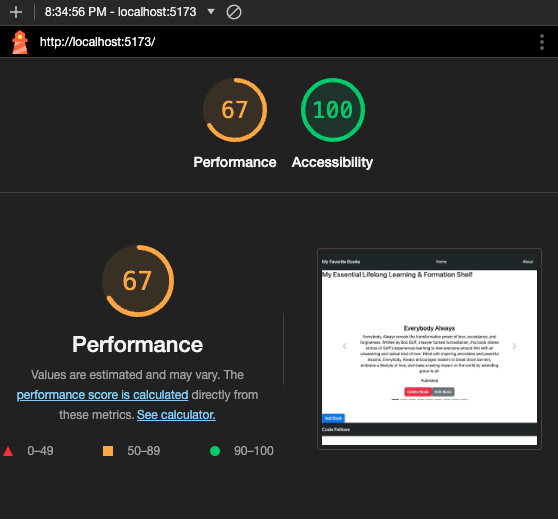
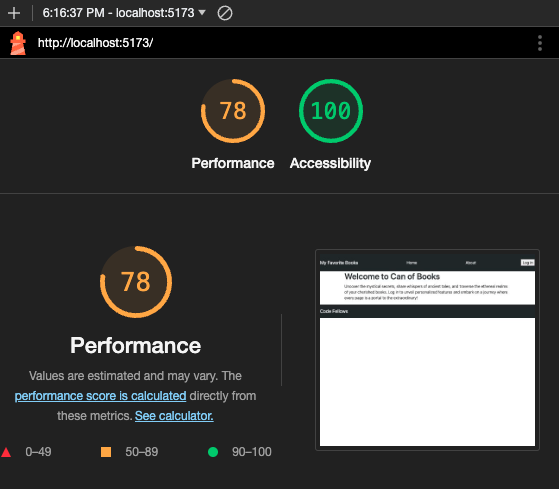
Added Auth0

diff --git a/src/BestBooks.jsx b/src/BestBooks.jsx
@@ -4,6 +4,8 @@ import { Button }from 'react-bootstrap';
 import 'bootstrap/dist/css/bootstrap.min.css';
 import CreateBook from './CreateBook';
 import EditBook from './EditBook';
+import { withAuth0 } from '@auth0/auth0-react';
+
 
 
 
@@ -14,6 +16,7 @@ class BestBooks extends React.Component {
       books: [],
       isLoading: false,
       showModal: false,
+      token: null,
       editedBook:{
         _id: '',
         title: '',
@@ -49,7 +52,14 @@ class BestBooks extends React.Component {
   }
 async componentDidMount(){
     try {
-        let foundBooks = await fetch(`${import.meta.env.VITE_SERVER_URL}/books`);
+        let res = await this.props.auth0.getIdTokenClaims();
+        const token = res.__raw;
+        console.log('This is my token :', token)
+        this.setState({ token });
+        let foundBooks = await fetch(`${import.meta.env.VITE_SERVER_URL}/books`, {
+            headers: {
+                'Authorization': `Bearer ${token}`},
+        });
         if (foundBooks.ok) {
             let bookData= await foundBooks.json();
             this.setState({
@@ -65,10 +75,15 @@ async componentDidMount(){
 }
 async handleDeleteBook(bookId){
     try {
+        let res = await this.props.auth0.getIdTokenClaims();
+        const token = res.__raw;
+        this.setState({ token });
         this.setState({ isLoading: true })
         console.log('Deleting books with this ID: ', bookId)
         let deleteBook = await fetch(`${import.meta.env.VITE_SERVER_URL}/books/${bookId}`, {
             method: 'DELETE',
+            headers: {
+                'Authorization': `Bearer ${token}`},
         });
         if (deleteBook.ok) {
             this.setState((prevState) => ({
@@ -90,15 +105,19 @@ handleEditSubmit = async (updatedBook) => {
     try {
       const { _id, title, description, status } = updatedBook;
       const updatedBookData = { title, description, status };
+      let res = await this.props.auth0.getIdTokenClaims();
+      const token = res.__raw;
+      this.setState({ token });
   
-      let res = await fetch(`${import.meta.env.VITE_SERVER_URL}/books/${_id}`, {
+      let response = await fetch(`${import.meta.env.VITE_SERVER_URL}/books/${_id}`, {
         method: 'PUT',
         headers: {
-          'Content-Type': 'application/json',
-        },
+            'Content-Type': 'application/json',
+            'Authorization': `Bearer ${token}`,
+          },
         body: JSON.stringify(updatedBookData),
       });
-        if (res.ok) {
+        if (response.ok) {
             const updatedBookData = await res.json();
             this.setState((prevState) => ({
                 books: prevState.books.map((book) => 
@@ -109,7 +128,7 @@ handleEditSubmit = async (updatedBook) => {
             }));
             this.handleCloseModal();
         }else {
-            console.error('BestBooks.jsx- Failed to Update Book:', res.status )
+            console.error('BestBooks.jsx- Failed to Update Book:', response.status )
         }
     } catch (error) {
         console.error('BestBooks.jsx- Error Updating Book: ', error);
@@ -121,50 +140,59 @@ handleBookCreated = (newBook) => {
         books: [ ...prevState.books, newBook],
     }));
 }
-  render() {
+render() {
     let carouselStyle = {
-        margin: '2rem',
-    }
+      margin: '2rem',
+    };
 
-        return (
-            <>
-                <h2>My Essential Lifelong Learning &amp; Formation Shelf</h2>
+    return (
+      <>
+      {this.props.auth0.isAuthenticated ? (
+        <>
+            <h3>My Essential Lifelong Learning &amp; Formation Shelf</h3>
 
-                {this.state.books.length > 0 ? (
-                    <Carousel style= {carouselStyle} data-bs-theme="dark">
-                        {this.state.books.map((book, index) => (
-                            <Carousel.Item key={index}>
-                                {book.img ? (
-                                    <img src={book.img} alt={`Slide ${index + 1}`} />
-                                ) : (
-                                    <img src="https://fakeimg.pl/600x500/FFFFFF/FFFFFF" alt={`Slide ${index + 1}`} />
-                                )}
-                                <Carousel.Caption className="book-card">
-                                    <h3>{book.title}</h3>
-                                    <p>{book.description}</p>
-                                    <p>{book.status}</p>
-                                    <Button variant='danger' onClick={() => this.handleDeleteBook(book._id)} >
-                                        Delete Book </Button>
-                                        <Button variant='secondary' onClick={() => this.handleEditBook(book)} >
-                                        Edit Book </Button>
-                                </Carousel.Caption>
-                            </Carousel.Item>
-                        ))}
-                    </Carousel>
-                ) : (
-                    <h3>No Books Found</h3>
-                )}
-                <CreateBook onBookCreated= {this.handleBookCreated}/>
-                {this.state.showModal && (
-                <EditBook 
-                  showModal={this.state.showModal}
-                  handleCloseModal={this.handleCloseModal}
-                  editedBook={this.state.editedBook}
-                  handleEditSubmit={this.handleEditSubmit}/>
-                  )}
+            {this.state.books.length > 0 ? (
+              <Carousel style={carouselStyle} data-bs-theme="dark">
+                {this.state.books.map((book, index) => (
+                  <Carousel.Item key={index}>
+                    {book.img ? (
+                      <img src={book.img} alt={`Slide ${index + 1}`} />
+                    ) : (
+                      <img src="https://fakeimg.pl/600x500/FFFFFF/FFFFFF" alt={`Slide ${index + 1}`} />
+                    )}
+                    <Carousel.Caption className="book-card">
+                      <h3>{book.title}</h3>
+                      <p>{book.description}</p>
+                      <p>{book.status}</p>
+                      <Button variant="danger" onClick={() => this.handleDeleteBook(book._id)}>
+                        Delete Book
+                      </Button>
+                      <Button variant="secondary" onClick={() => this.handleEditBook(book)}>
+                        Edit Book
+                      </Button>
+                    </Carousel.Caption>
+                  </Carousel.Item>
+                ))}
+              </Carousel>
+            ) : (
+              <h3>No Books Found</h3>
+            )}
+            <CreateBook onBookCreated={this.handleBookCreated} />
+            {this.state.showModal && (
+              <EditBook
+                showModal={this.state.showModal}
+                handleCloseModal={this.handleCloseModal}
+                editedBook={this.state.editedBook}
+                handleEditSubmit={this.handleEditSubmit}
+              />
+            )}
             </>
-        );
-    }
+            ): (
+                <h2> Please Log In To View and Add Books</h2>
+            )}
+      </>
+    );
+  }
 }
 
-export default BestBooks;
+export default withAuth0(BestBooks);

diff --git a/src/App.jsx b/src/App.jsx
@@ -9,26 +9,39 @@ import {
   Routes,
   Route
 } from "react-router-dom";
+import { Auth0Provider, useAuth0 } from '@auth0/auth0-react';
+import Welcome from './Welcome';
 
+const AuthenticatedRoute = ({ children }) => {
+  const { isAuthenticated } = useAuth0();
+  return isAuthenticated ? children : <Welcome />
+}
 class App extends React.Component {
   render() {
     return (
-      <>
+      <Auth0Provider
+        domain={import.meta.env.VITE_AUTH_DOMAIN}
+        clientId={import.meta.env.VITE_AUTH_CLIENT_ID}
+        authorizationParams={{
+          redirect_uri: window.location.origin,
+        }}
+      >
+        
         <Router>
           <Header />
           <Routes>
-            <Route 
+            <Route
               exact path="/"
-              element={<BestBooks />}
+              element={<AuthenticatedRoute><BestBooks /></AuthenticatedRoute>}
             />
-            <Route 
-            path="/about"
-            element={<Profile />}
+            <Route
+              path="/about"
+              element={<Profile />}
             />
           </Routes>
           <Footer />
         </Router>
-      </>
+      </Auth0Provider>
     )
   }
 }

diff --git a/src/Header.jsx b/src/Header.jsx
@@ -1,6 +1,7 @@
 import React from 'react';
 import { Navbar, NavItem } from 'react-bootstrap';
 import { Link } from "react-router-dom";
+import AuthButtons from './Auth/AuthButtons';
 
 class Header extends React.Component {
   render() {
@@ -13,7 +14,8 @@ class Header extends React.Component {
         <Navbar.Brand>My Favorite Books</Navbar.Brand>
         <NavItem><Link to="/" className="nav-link" style={linkStyle}>Home</Link></NavItem>
         <NavItem><Link to="/about" className="nav-link" style={linkStyle}>About</Link></NavItem>
-        {/* PLACEHOLDER: render a navigation link to the about page */}
+        <AuthButtons />
+        
       </Navbar>
     )
   }

diff --git a/src/Welcome.jsx b/src/Welcome.jsx
@@ -1,0 +1,18 @@
+import React from 'react';
+import { Container } from 'react-bootstrap';
+
+class Welcome extends React.Component {
+    render() {
+      return (
+        <Container>
+          <h1>Welcome to Can of Books</h1>
+          <p>
+          Uncover the mystical secrets, share whispers of ancient tales, and traverse the ethereal realms of your cherished books. 
+          Log in to unveil personalized features and embark on a journey where every page is a portal to the extraordinary!
+          </p>
+      </Container>
+    );
+  }
+}
+  
+  export default Welcome;

diff --git a/src/Auth/Logout.jsx b/src/Auth/Logout.jsx
@@ -1,0 +1,20 @@
+import React from 'react';
+import { useAuth0 } from '@auth0/auth0-react';
+
+function LogoutButton() {
+
+  const {
+    isAuthenticated,
+    logout
+  } = useAuth0();
+
+  function handleLogout() {
+    logout({ returnTo: window.location.origin });
+  }
+
+  return isAuthenticated &&
+      <button onClick={handleLogout}>Log out</button>
+    ;
+}
+
+export default LogoutButton;

diff --git a/src/Auth/Login.jsx b/src/Auth/Login.jsx
@@ -1,0 +1,19 @@
+import React from 'react';
+import { useAuth0 } from '@auth0/auth0-react';
+
+function Login() {
+
+  const {
+    isAuthenticated,
+    loginWithRedirect,
+  } = useAuth0();
+
+  function handleLogin() {
+    loginWithRedirect();
+  }
+
+  return ! isAuthenticated &&
+    <button onClick={handleLogin}>Log in</button>
+  ;
+}
+export default Login;

diff --git a/src/Auth/AuthButtons.jsx b/src/Auth/AuthButtons.jsx
@@ -1,0 +1,15 @@
+import React from 'react';
+import { useAuth0 } from '@auth0/auth0-react';
+import Login from "./Login";
+import Logout from "./Logout";
+
+function AuthButtons() {
+
+  const {
+    isAuthenticated,
+  } = useAuth0();
+
+  return isAuthenticated ? <Logout /> : <Login />
+}
+
+export default AuthButtons;

diff --git a/src/main.jsx b/src/main.jsx
@@ -2,6 +2,8 @@ import React from 'react';
 import ReactDOM from 'react-dom/client';
 import App from './App';
 
+
+
 const root = ReactDOM.createRoot(document.getElementById('root'));
 root.render(
   <React.StrictMode>
